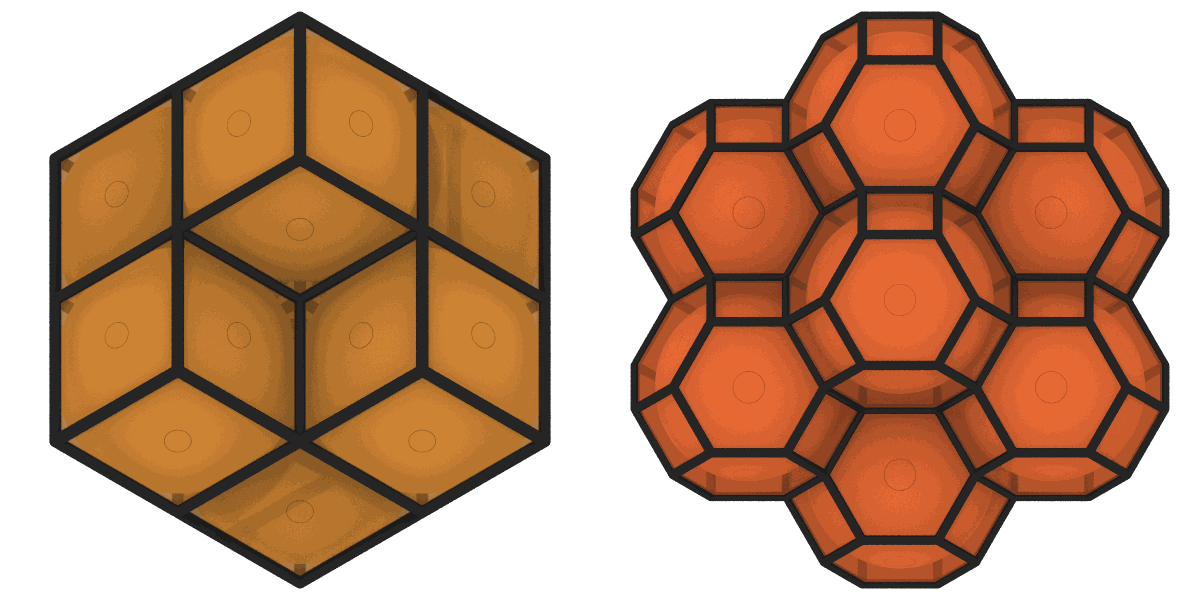
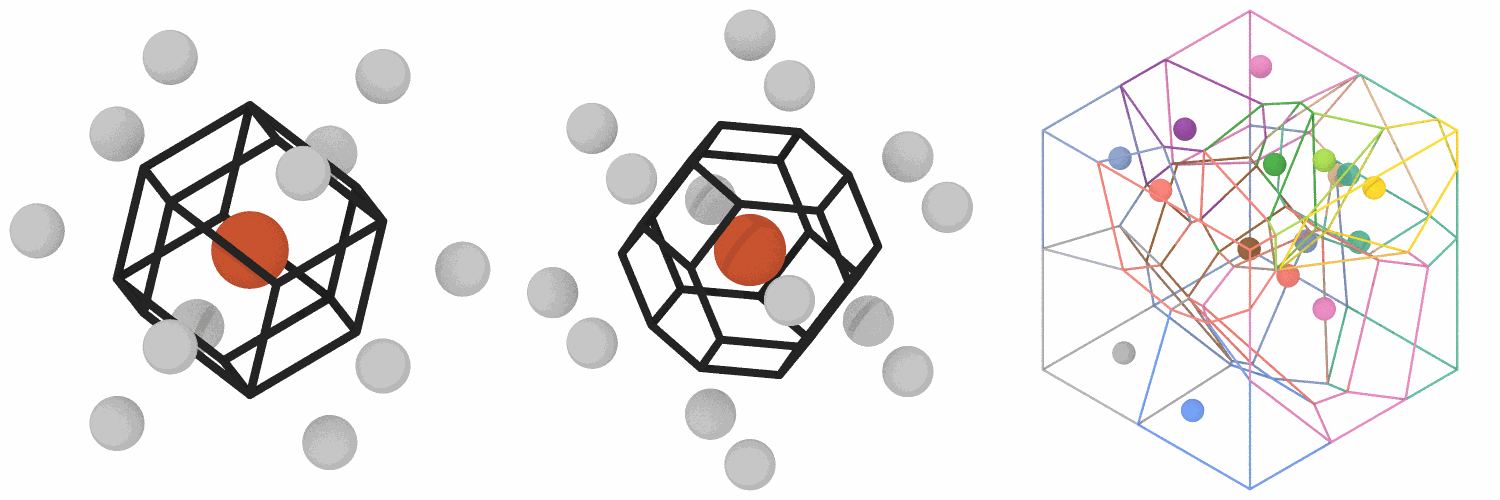
Voronoi analysis: cells drawn as their edges around the atoms, as voro++ draws them: one cell of fcc and of bcc with their neighbors, and the cells of random atoms

diff --git a/docs/user-guide/analysis/voronoi.md b/docs/user-guide/analysis/voronoi.md
@@ -30,32 +30,84 @@ shapes = VoronoiAnalysis(polyhedra=True).compute(system).polyhedra
 shapes.vertices  # Å, the corners of every cell
 ```
 
-The cells of the atoms near the middle of an fcc and a bcc crystal, drawn by
-the [renderer](../visualization/rendering.md):
+The cell of an atom in fcc and in bcc, with the neighbors across its faces, and
+the cells of a few atoms at random, each face drawn as a closed line by the
+[renderer](../visualization/rendering.md):
 
 ```python
-from mdapy.build import build_crystal
-from mdapy.visualization import render, write_png
+import mdapy as mp
+from mdapy.visualization import colormap, render, write_png
+
+
+def faces(cells, i):
+    """The faces of the cell of atom i, each a closed line through its corners."""
+    lines = []
+    for f in range(cells.face_offsets[i], cells.face_offsets[i + 1]):
+        corners = cells.corners[cells.corner_offsets[f] : cells.corner_offsets[f + 1]]
+        lines.append(cells.vertices[np.append(corners, corners[0])])
+    return lines
+
 
 pictures = []
-for crystal in (
-    build_crystal("fcc", 3.6, elements="Cu", repeat=(3, 3, 3)),
-    build_crystal("bcc", 2.87, elements="Fe", repeat=(4, 4, 4)),
+for crystal, reach in (
+    (build_crystal("fcc", 3.6, elements="Cu", repeat=(3, 3, 3)), 2.6),
+    (build_crystal("bcc", 2.87, elements="Fe", repeat=(4, 4, 4)), 2.9),
 ):
     cells = VoronoiAnalysis(polyhedra=True).compute(crystal).polyhedra
     middle = crystal.box.matrix.diagonal() / 2
-    near = np.linalg.norm(crystal["positions"] - middle, axis=1) < 3.0
+    i = int(np.argmin(np.linalg.norm(crystal["positions"] - middle, axis=1)))
+    apart = crystal.box.minimum_image(crystal["positions"] - crystal["positions"][i])
+    distance = np.linalg.norm(apart, axis=1)
+    colors = np.where((distance < 0.1)[:, None], (0.85, 0.35, 0.2), (0.75, 0.75, 0.75))
     pictures.append(
-        render(crystal, atoms=near, polyhedra=cells, box=False, width=600, height=600)
+        render(
+            crystal,
+            atoms=distance < reach,
+            color=colors,
+            radius=np.where(distance < 0.1, 0.45, 0.32),
+            lines=faces(cells, i),
+            line_radius=0.05,
+            line_color=(0.15, 0.15, 0.15),
+            box=False,
+            view=[1, 0.6, 0.45],
+            width=500,
+            height=500,
+        )
     )
+
+# sixteen atoms at random in a closed box, the edges of each cell in its color
+rng = np.random.default_rng(4)
+points = mp.System(rng.random((16, 3)) * 10, mp.Box(10.0, pbc=False), elements="Ar")
+cells = VoronoiAnalysis(polyhedra=True).compute(points).polyhedra
+colors = colormap(np.arange(16), "labels")
+lines = [faces(cells, i) for i in range(16)]
+pictures.append(
+    render(
+        points,
+        color=colors,
+        radius=0.4,
+        lines=[face for cell in lines for face in cell],
+        line_color=[colors[i] for i, cell in enumerate(lines) for _ in cell],
+        line_radius=0.04,
+        box=False,
+        width=500,
+        height=500,
+    )
+)
 write_png("images/voronoi.png", np.hstack(pictures))
 ```
 
-![Voronoi cells of fcc and bcc crystals](images/voronoi.png)
+![Voronoi cells of fcc, bcc and random atoms](images/voronoi.png)
 
-*Left: in fcc every cell is a rhombic dodecahedron of 12 faces. Right: in bcc
-a truncated octahedron of 8 hexagons, toward the nearest neighbors, and 6
-squares, toward the second neighbors.*
+*Left: the cell of an atom of fcc, a rhombic dodecahedron, each of its 12 faces
+halfway to one of its 12 nearest neighbors (gray). Middle: in bcc a truncated
+octahedron, 8 hexagons toward the first neighbors and 6 squares toward the second.
+Right: sixteen atoms at random in a box that is not periodic, the edges of each cell in
+the color of its atom; the faces of the box close the outer cells.*
+
+`render(system, polyhedra=cells)` draws the cells of all the atoms shown as solids
+instead, their faces in the color of their atom or by their number of edges; see
+[Rendering](../visualization/rendering.md#parameters).
 
 ## Parameters
 
